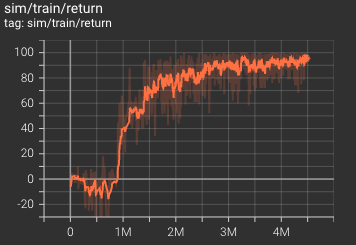
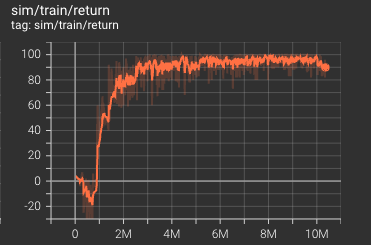
update configs_atari.py, add results on pong and freeway

Changed region(s): [[0.0309, 0.1714, 0.9579, 0.9714], [0.0, 0.0, 0.3399, 0.1429]]

diff --git a/config_files/configs_atari.py b/config_files/configs_atari.py
@@ -31,7 +31,7 @@ cfg = CN({
         'activation': 'relu',
         'pos_enc': 'temporal',
         'embedding_type': 'linear',
-        'n_layers': 4,
+        'n_layers': 6,
         'pre_lnorm': True,
         'deter_type': 'concat_o',
         'gating': False,

diff --git a/README.md b/README.md
@@ -12,6 +12,10 @@ python main.py --config-file config_files/configs_atari.py
 - Results reproduction
   - Atari-Boxing
   ![Atari-Boxing](images/boxing.png)
+  - Atari-Freeway
+  ![Atari-freeway](images/freeway.png)
+  - Atari-Pong
+  ![Atari-pong](images/pong.png)
 
 ## Citation
 ```
